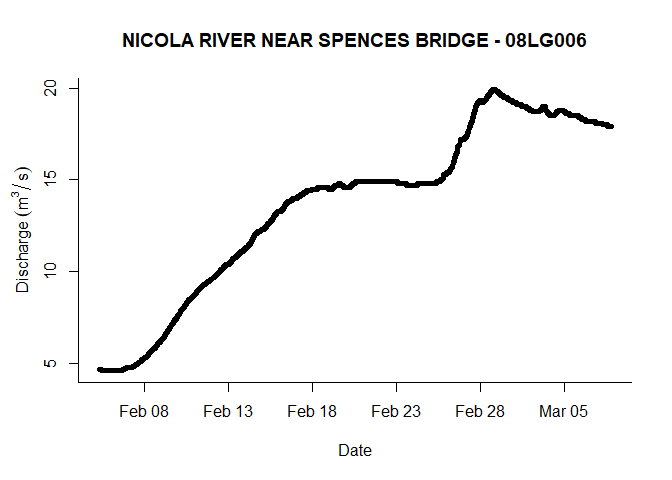
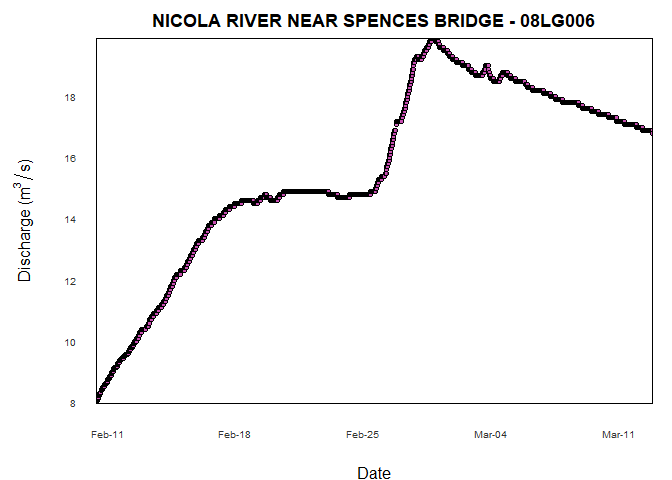
prettier plots

diff --git a/README.md b/README.md
@@ -217,22 +217,22 @@ easily select specific stations by supplying a station of interest:
 
 ``` r
 realtime_dd(station_number = "08LG006")
-#>   Queried on: 2019-03-07 22:16:41 (UTC)
-#>   Date range: 2019-02-05 to 2019-03-07 
-#> # A tibble: 17,484 x 8
+#>   Queried on: 2019-03-12 23:21:10 (UTC)
+#>   Date range: 2019-02-10 to 2019-03-12 
+#> # A tibble: 17,532 x 8
 #>    STATION_NUMBER PROV_TERR_STATE~ Date                Parameter Value
 #>    <chr>          <chr>            <dttm>              <chr>     <dbl>
-#>  1 08LG006        BC               2019-02-05 08:00:00 Flow       4.65
-#>  2 08LG006        BC               2019-02-05 08:05:00 Flow       4.65
-#>  3 08LG006        BC               2019-02-05 08:10:00 Flow       4.65
-#>  4 08LG006        BC               2019-02-05 08:15:00 Flow       4.65
-#>  5 08LG006        BC               2019-02-05 08:20:00 Flow       4.65
-#>  6 08LG006        BC               2019-02-05 08:25:00 Flow       4.65
-#>  7 08LG006        BC               2019-02-05 08:30:00 Flow       4.65
-#>  8 08LG006        BC               2019-02-05 08:35:00 Flow       4.65
-#>  9 08LG006        BC               2019-02-05 08:40:00 Flow       4.65
-#> 10 08LG006        BC               2019-02-05 08:45:00 Flow       4.65
-#> # ... with 17,474 more rows, and 3 more variables: Grade <chr>,
+#>  1 08LG006        BC               2019-02-10 08:00:00 Flow       7.98
+#>  2 08LG006        BC               2019-02-10 08:05:00 Flow       7.98
+#>  3 08LG006        BC               2019-02-10 08:10:00 Flow       8.02
+#>  4 08LG006        BC               2019-02-10 08:15:00 Flow       8.02
+#>  5 08LG006        BC               2019-02-10 08:20:00 Flow       8.02
+#>  6 08LG006        BC               2019-02-10 08:25:00 Flow       8.02
+#>  7 08LG006        BC               2019-02-10 08:30:00 Flow       8.02
+#>  8 08LG006        BC               2019-02-10 08:35:00 Flow       8.02
+#>  9 08LG006        BC               2019-02-10 08:40:00 Flow       8.02
+#> 10 08LG006        BC               2019-02-10 08:45:00 Flow       8.02
+#> # ... with 17,522 more rows, and 3 more variables: Grade <chr>,
 #> #   Symbol <chr>, Code <chr>
 ```
 
